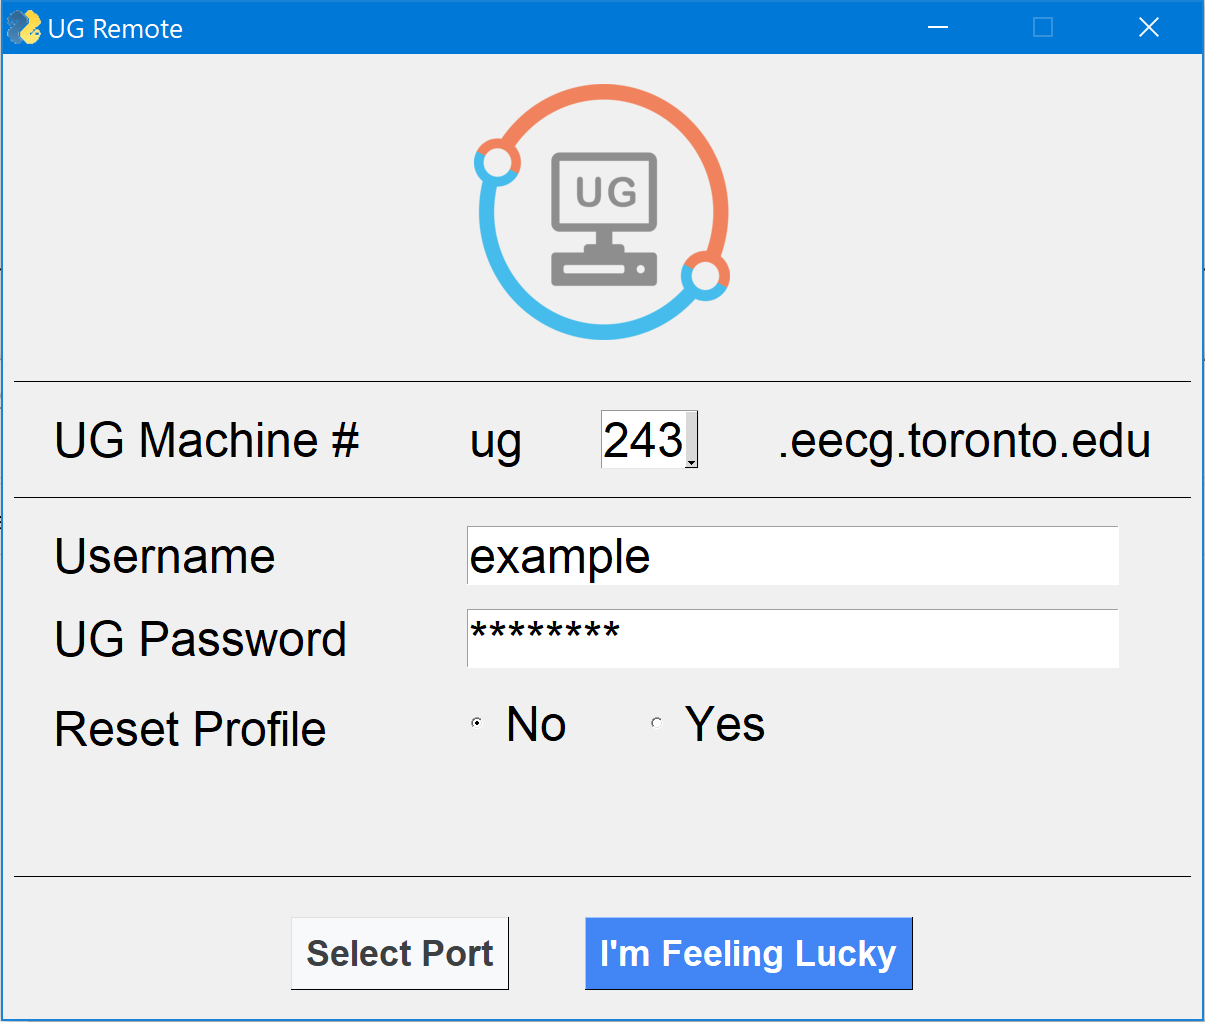
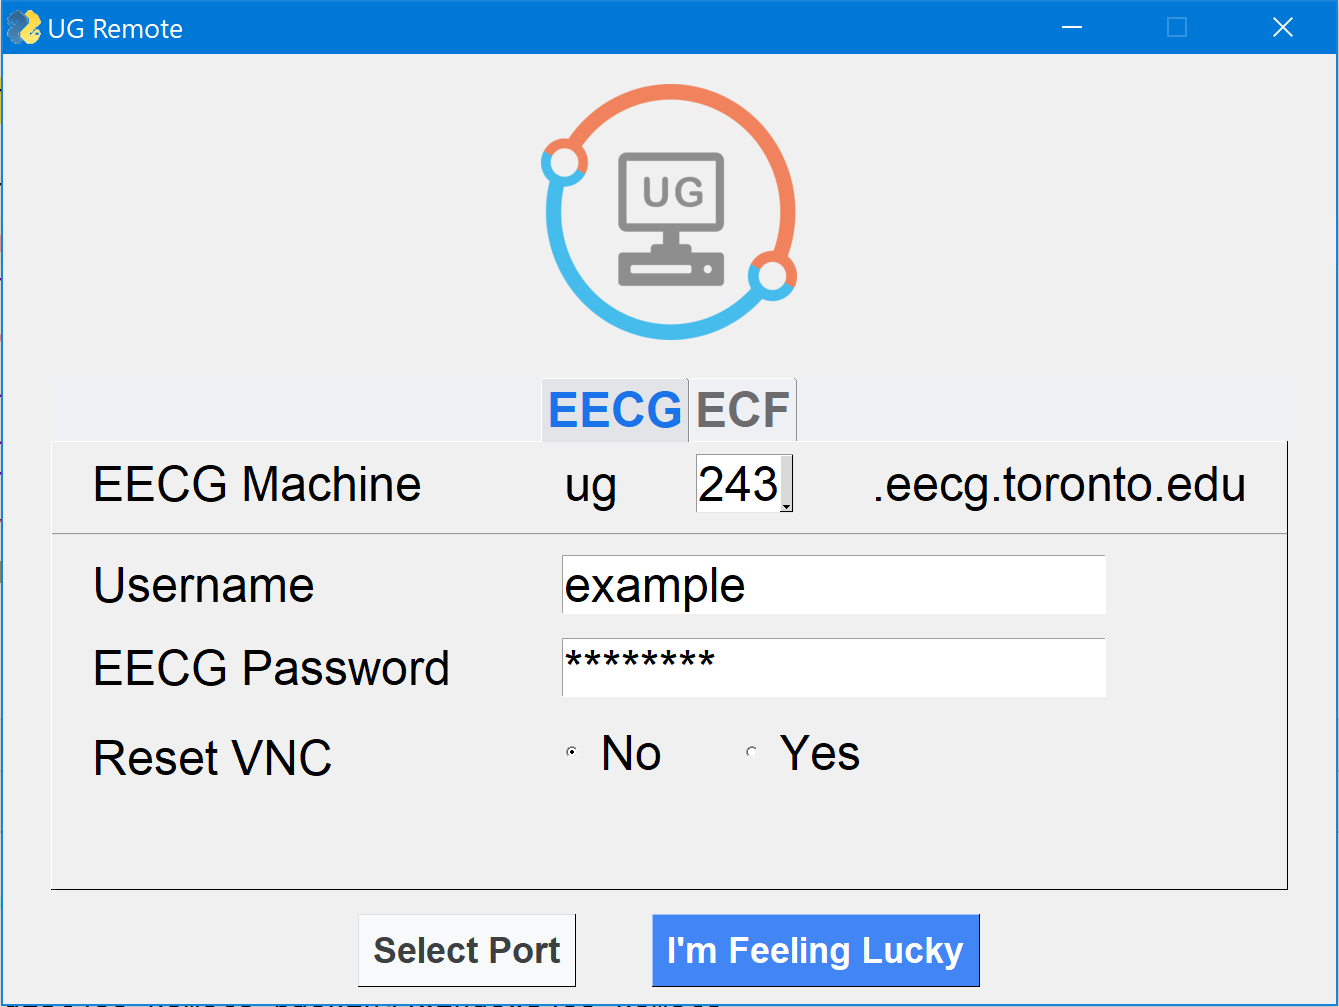
Adapted the script to Windows platform; Updated README.md

diff --git a/callback.py b/callback.py
@@ -10,8 +10,8 @@ import machines
 import ug_profile
 from path_names import *
 
-my_ecf_conn = ecf_connection.ECFConnection()
 my_eecg_conn = eecg_connection.EECGConnection()
+my_ecf_conn = ecf_connection.ECFConnection()
 my_profile = ug_profile.UGProfile()
 my_profile.load_profile()
 
@@ -131,7 +131,6 @@ def launch_vnc_eecg(port_num):
 
     actual_port = 5900 + port_num
 
-    # TODO: add support for Windows
     # TODO: support launching with other VNC viewers
     if platform.system() == "Darwin" and VNC_VIEWER_PATH_MACOS is None:
         sg.Popup("Could not find any installed TigerVNC on your computer. \n"
@@ -139,6 +138,17 @@ def launch_vnc_eecg(port_num):
                  "or follow the UG_Remote installer to installer TigerVNC, \n"
                  "or you can download TigerVNC from the official site \n"
                  "and place the .app under /Applications . \n\n"
+                 "The VNC Address is localhost:%d" % actual_port,
+                 title="TigerVNC NOT Found",
+                 keep_on_top=True,
+                 button_type=sg.POPUP_BUTTONS_OK, button_color=('white', 'red'))
+        return
+    elif platform.system() == "Windows" and VNC_VIEWER_PATH_WIN64 is None:
+        sg.Popup("Could not find any installed TigerVNC in UG_Remote's directory. \n"
+                 "You may still launch your favourite VNC viewer if you wish, \n"
+                 "or follow the UG_Remote installer to installer TigerVNC, \n"
+                 "or you can download TigerVNC from the official site \n"
+                 "and place the standalone .exe under UG_Remote's directory. \n\n"
                  "The VNC Address is localhost:%d" % actual_port,
                  title="TigerVNC NOT Found",
                  keep_on_top=True,
@@ -185,6 +195,17 @@ def launch_vnc_ecf():
                  "or follow the UG_Remote installer to installer TigerVNC, \n"
                  "or you can download TigerVNC from the official site \n"
                  "and place the .app under /Applications . \n\n"
+                 "The VNC Address is localhost:2000",
+                 title="TigerVNC NOT Found",
+                 keep_on_top=True,
+                 button_type=sg.POPUP_BUTTONS_OK, button_color=('white', 'red'))
+        return
+    elif platform.system() == "Windows" and VNC_VIEWER_PATH_WIN64 is None:
+        sg.Popup("Could not find any installed TigerVNC in UG_Remote's directory. \n"
+                 "You may still launch your favourite VNC viewer if you wish, \n"
+                 "or follow the UG_Remote installer to installer TigerVNC, \n"
+                 "or you can download TigerVNC from the official site \n"
+                 "and place the standalone .exe under UG_Remote's directory. \n\n"
                  "The VNC Address is localhost:2000",
                  title="TigerVNC NOT Found",
                  keep_on_top=True,

diff --git a/path_names.py b/path_names.py
@@ -16,7 +16,11 @@ if getattr(sys, 'frozen', False):  # standalone mode
     # noinspection PyUnresolvedReferences
     UG_REMOTE_ICON_PATH = os.path.join(sys._MEIPASS, UG_REMOTE_ICON_PATH)
 
-if platform.system() == 'Windows':
+if platform.system() == "Windows":
+    if not os.path.isfile(VNC_VIEWER_PATH_WIN64):
+        print("Could not find TigerVNC")
+        VNC_VIEWER_PATH_WIN64 = None
+
     WIN_INSTALL_DIR_PATH = os.path.join(os.environ['ProgramFiles'], "UG_Remote")
     if WIN_INSTALL_DIR_PATH == APP_PATH:
         print("App installed in ProgramFiles, using LocalAppData for profile storage. ")
@@ -46,7 +50,6 @@ elif platform.system() == "Darwin":  # Mac OS
     VNC_PASSWD_PATH = os.path.join(MACOS_HOME_UG_REMOTE_DIR_PATH, VNC_PASSWD_PATH)
 
     import glob
-
     available_tigervnc_paths = glob.glob(VNC_VIEWER_PATH_MACOS)
     if len(available_tigervnc_paths) == 0:
         VNC_VIEWER_PATH_MACOS = None

diff --git a/UG_Remote.py b/UG_Remote.py
@@ -46,12 +46,11 @@ while True:
         layout.enable_eecg_components(window)
     elif not callback.my_ecf_conn.connected:
         layout.enable_ecf_components(window)
-        callback.my_ecf_conn.forward_thread.join()
     # else:  # use for debugging only: should comment this out before publishing
     #     print(event, values)
     #     print('Event {} not in dispatch dictionary'.format(event))
 
-# window.close()
-# sys.stdout.flush()
-# sys.stderr.flush()
+window.close()
+sys.stdout.flush()
+sys.stderr.flush()
 os._exit(0)

diff --git a/layout.py b/layout.py
@@ -129,7 +129,12 @@ layout = [
             [
                 [sg.Tab('EECG', eecg_layout), sg.Tab('ECF', ecf_layout)]
             ],
-            font=FONT_HELVETICA_16,
+            font=FONT_HELVETICA_16_BOLD,
+            background_color="#eff0f4",
+            title_color="#6c6c6e",
+            tab_background_color="#eff0f4",
+            selected_title_color="#1a73e8",
+            selected_background_color="#e2e4e7",
             tab_location="center",
             enable_events=True,
             key="-LAB_INTF-"

diff --git a/machines.py b/machines.py
@@ -1,6 +1,3 @@
-
-
 MACHINES = list(range(51, 76))
 MACHINES.extend(range(132, 181))
 MACHINES.extend(range(201, 252))
-

diff --git a/README.md b/README.md
@@ -1,5 +1,5 @@
 # UG_Remote
-**UofT EECG Lab Remote for MacOS / Windows**
+**UofT EECG/ECF Lab Remote for macOS / Windows**
 
 Download the latest version here: https://github.com/junhaoliao/UG_Remote/releases
 
@@ -8,11 +8,11 @@ Download the latest version here: https://github.com/junhaoliao/UG_Remote/releas
 <img width=512 alt="UG_Remote_Demo" src="https://github.com/junhaoliao/UG_Remote/blob/main/demo/UG_Remote_demo.png?raw=true">
 
 ## Disclaimer
-Your EECG lab remote password, together with your VNC password, will be obfuscated and stored locally. Please understand the risk and do not use it on any public computers. If you have any concerns, please email to junhao@junhao.ca or junhao.liao@mail.utoronto.ca
+Your EECG/ECF lab remote password, together with your VNC password when applicable, will be obfuscated and stored locally. Please understand the risk and do not use it on any public computers. If you have any concerns, please email to junhao@junhao.ca or junhao.liao@mail.utoronto.ca
 
 You are welcome to visit my personal website: https://junhao.ca
 
-## Instructions (MacOS) - 5 Steps
+## Instructions (macOS) - 5 Steps
 0. Download UG_Remote.5.x.x.dmg from the [**Releases**](https://github.com/junhaoliao/UG_Remote/releases) page and double-click to mount.
 1. From the mounted disk, drag "UG_Remote.app" into your "Applications" directory.
 2. Open the "De-Quarantine" workflow and click the upper-right "Run" button.
@@ -46,7 +46,7 @@ This script is updated to v5.0.0 on December 19, 2020
 前往Release页面获取最新版本：https://github.com/junhaoliao/UG_Remote/releases
 
 ## 声明
-你的EECG和VNC密码将在混淆后本地存储。请明晰风险并不要在公共电脑上使用。如有疑问欢迎来邮junhao.liao@mail.utoronto.ca 或 junhao@junhao.ca
+你的EECG/ECF密码，当适用时及VNC密码，将在混淆后本地存储。请明晰风险并不要在公共电脑上使用。如有疑问欢迎来邮junhao.liao@mail.utoronto.ca 或 junhao@junhao.ca
 
 欢迎来我的个人网站逛逛：https://junhao.ca
 
